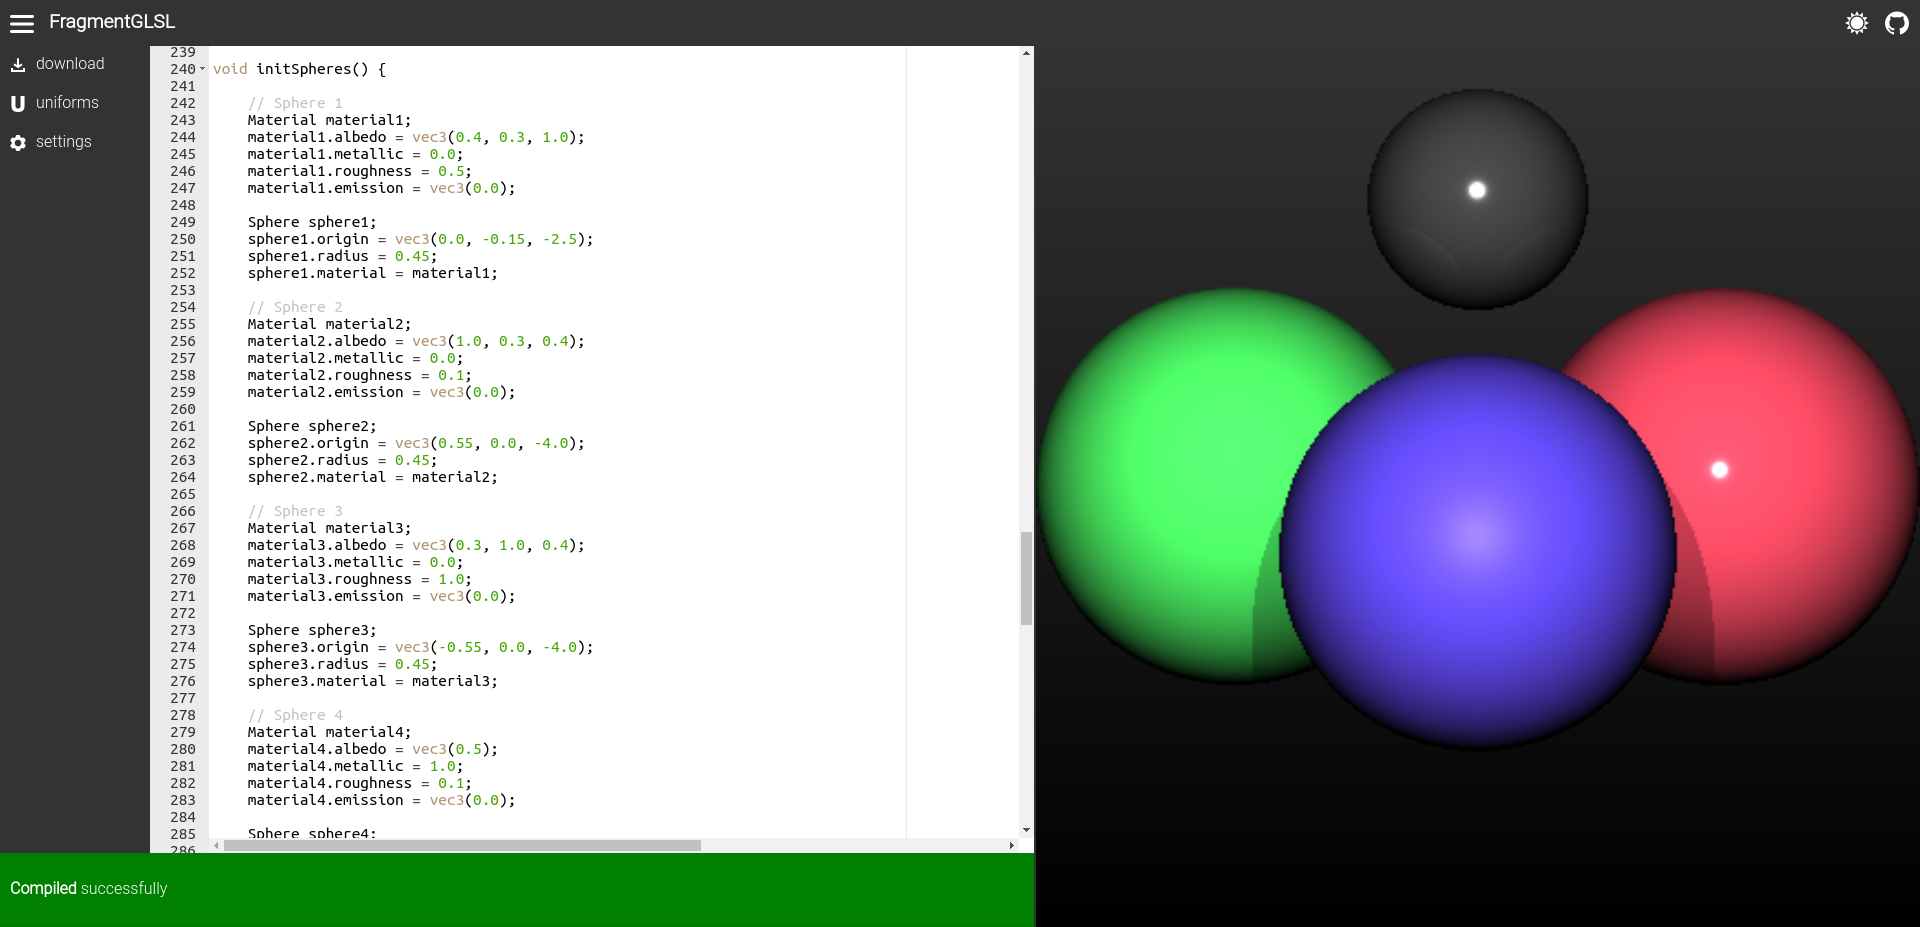
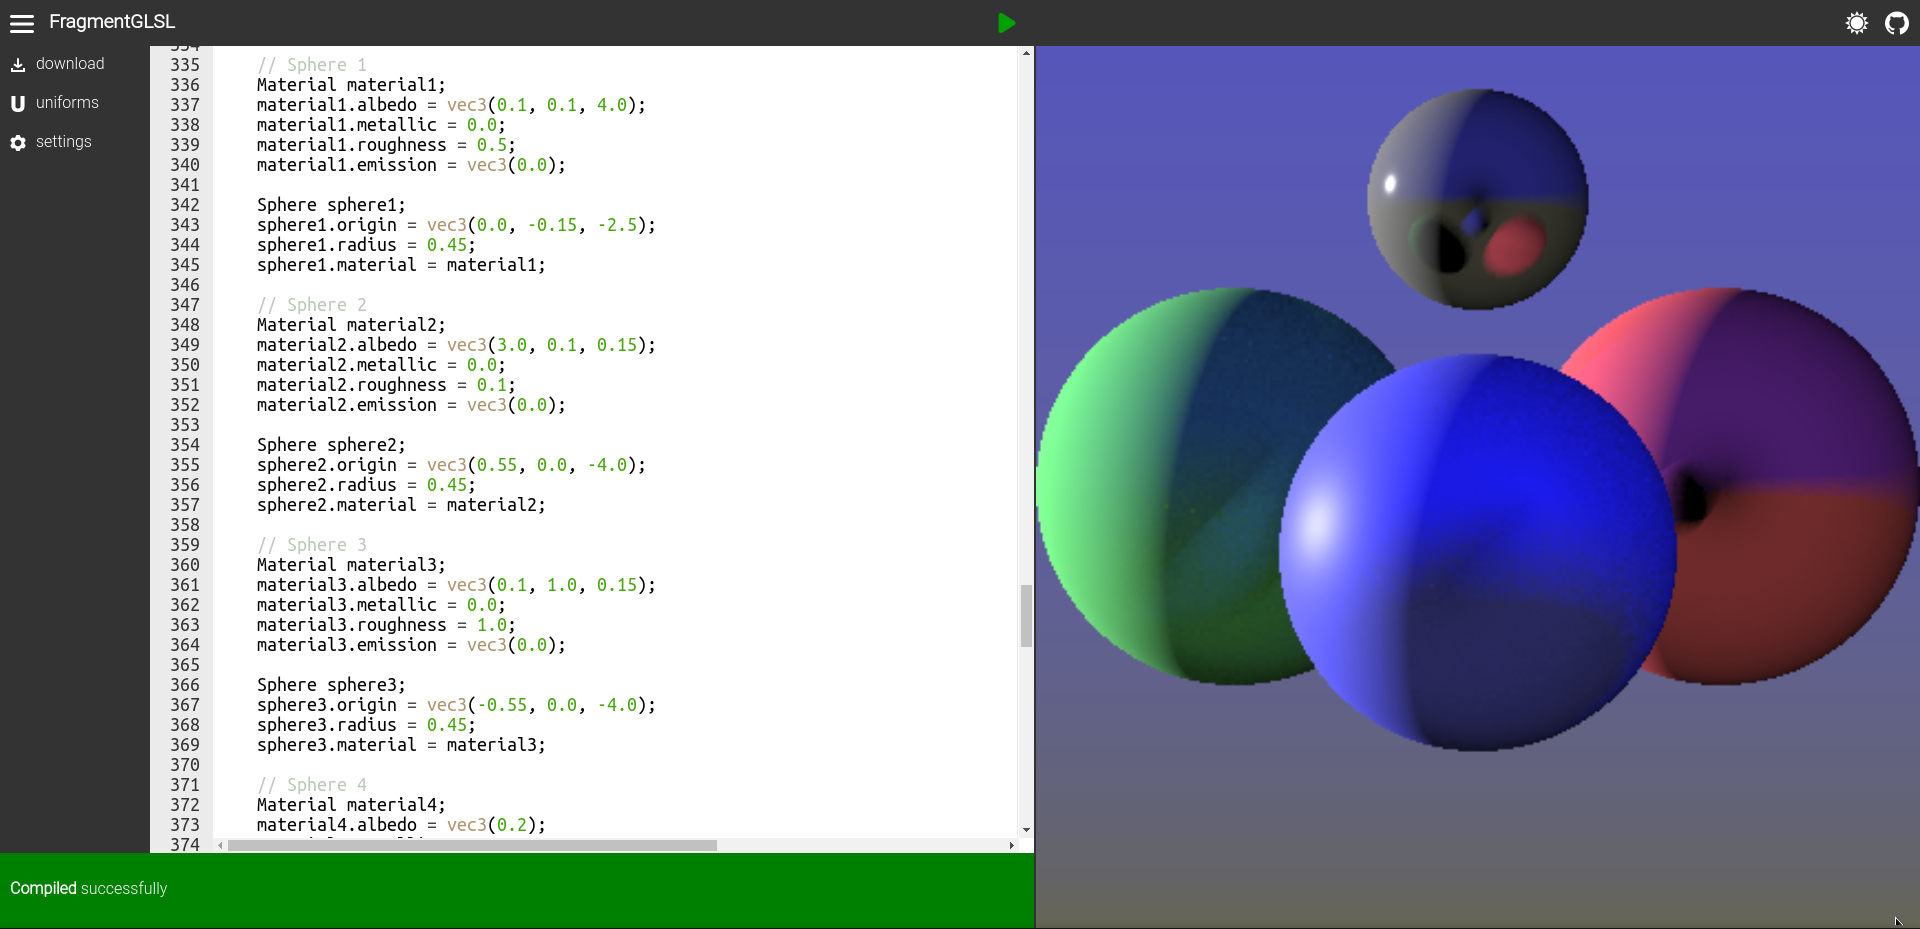
run button

diff --git a/src/js/webgl.js b/src/js/webgl.js
@@ -1,3 +1,5 @@
+let running = true;
+
 function initWebGL() {
         
     const canvas = document.getElementById('webgl-canvas');
@@ -54,49 +56,52 @@ function initWebGL() {
 
     function render() {
 
-        let compiled = false;
-        let newFragmentShader = null;
+        if(running) {
+            
+            let compiled = false;
+            let newFragmentShader = null;
 
-        fragmentShaderCode = editor.getValue();
+            fragmentShaderCode = editor.getValue();
 
-        let errorOutput = document.getElementById('error-output');
+            let errorOutput = document.getElementById('error-output');
 
-        try {
-            newFragmentShader = compileProgram(fragmentShaderCode);
-            compiled = true;
-        }
-        catch(error) {
-            errorOutput.innerHTML = error;
-            errorOutput.style.backgroundColor = "#ff334e";
-        }
-        
-        if(compiled && newFragmentShader != null) {
-
-            fragmentShader = newFragmentShader;
-            gl.attachShader(program, fragmentShader);
-            gl.linkProgram(program);
-
-            if (!gl.getProgramParameter(program, gl.LINK_STATUS) && program != null) {
-                console.error('Program linking failed:', gl.getProgramInfoLog(program));
-                return;
+            try {
+                newFragmentShader = compileProgram(fragmentShaderCode);
+                compiled = true;
             }
+            catch(error) {
+                errorOutput.innerHTML = error;
+                errorOutput.style.backgroundColor = "#ff334e";
+            }
+            
+            if(compiled && newFragmentShader != null) {
 
-            gl.useProgram(program);
+                fragmentShader = newFragmentShader;
+                gl.attachShader(program, fragmentShader);
+                gl.linkProgram(program);
 
-            // Uniforms
-            const uTime = Date.now() - startTime;
-            uniformFloat(gl, "u_time", uTime, program);
+                if (!gl.getProgramParameter(program, gl.LINK_STATUS) && program != null) {
+                    console.error('Program linking failed:', gl.getProgramInfoLog(program));
+                    return;
+                }
 
-            uniformVec2(gl, "u_resolution", 400, 400, program);
+                gl.useProgram(program);
 
-            // Draw call
-            gl.clearColor(0.0, 0.0, 0.0, 1.0);
-            gl.clear(gl.COLOR_BUFFER_BIT);
-            gl.drawArrays(gl.TRIANGLE_STRIP, 0, 4);
+                // Uniforms
+                const uTime = Date.now() - startTime;
+                uniformFloat(gl, "u_time", uTime, program);
 
-            // Clear error
-            errorOutput.innerHTML = "<p style='padding: 10px'><strong>Compiled</strong> successfully</p>";
-            errorOutput.style.backgroundColor = "green";
+                uniformVec2(gl, "u_resolution", 400, 400, program);
+
+                // Draw call
+                gl.clearColor(0.0, 0.0, 0.0, 1.0);
+                gl.clear(gl.COLOR_BUFFER_BIT);
+                gl.drawArrays(gl.TRIANGLE_STRIP, 0, 4);
+
+                // Clear error
+                errorOutput.innerHTML = "<p style='padding: 10px'><strong>Compiled</strong> successfully</p>";
+                errorOutput.style.backgroundColor = "green";
+            }
         }
 
         // Request next frame (rendering loop)

diff --git a/src/index.html b/src/index.html
@@ -10,6 +10,9 @@
     <link rel="icon" type="image/x-icon" href="/img/f.png">
 
     <script src="libs/ace-builds/src-noconflict/ace.js" type="text/javascript" charset="utf-8"></script>
+
+    <!-- WEBGL variabless and functions -->
+    <script src="js/webgl.js"></script>
 </head>
 <body>
 
@@ -18,7 +21,11 @@
     
         <div>
             <button id="menu-button" class="menu-button"></button>
-            <strong style="margin-left: 5px;font-size: larger;">FragmentGLSL</strong>
+            <strong style="margin-left: 5px;font-size: larger;margin-bottom: 0px; padding: 0px;">FragmentGLSL</strong>
+        </div>
+
+        <div class="toolbar">
+            <button id="run-button"></button>
         </div>
 
         <div class="navbar-buttons">
@@ -106,8 +113,7 @@ void main() {
     <!-- JS MENU -->
     <script src="js/menu.js"></script>
 
-    <!-- JS WEBGL -->
-    <script src="js/webgl.js"></script>
+    <!-- JS init WEBGL -->
     <script>
         document.addEventListener('DOMContentLoaded', initWebGL);
     </script>

diff --git a/src/js/editor.js b/src/js/editor.js
@@ -20,11 +20,11 @@ let dark = false;
 darkmodeButton.addEventListener("click", function() {
     if(!dark) {
         editor.setTheme("ace/theme/monokai");
-        darkmodeButton.style. backgroundImage = "url('img/dark.png')";
+        darkmodeButton.style.backgroundImage = "url('img/dark.png')";
     }
     else {
         editor.setTheme("ace/theme/clouds");
-        darkmodeButton.style. backgroundImage = "url('img/light.png')";
+        darkmodeButton.style.backgroundImage = "url('img/light.png')";
     }
     dark = !dark;
 });

diff --git a/src/js/menu.js b/src/js/menu.js
@@ -98,3 +98,17 @@ document.getElementById("save-settings").addEventListener("click", function() {
 
     modalSettings.style.display = "none";
 });
+
+// Compile button events
+let runButton = document.getElementById("run-button");
+runButton.addEventListener("click", function() {
+
+    running = !running;
+    
+    if(!running) {
+        runButton.style.backgroundImage = "url('../img/run.png')";
+    }
+    else {
+        runButton.style.backgroundImage = "url('../img/pause.png')";
+    }
+});

diff --git a/src/styles/styles.css b/src/styles/styles.css
@@ -237,3 +237,23 @@ input[type=number] {
 #save-settings:hover {
     background-color: rgb(55, 55, 255);
 }
+
+.toolbar {
+    display: flex;
+}
+
+#run-button {
+    background-image: url(../img/pause.png);
+    background-color: transparent;
+    background-repeat: no-repeat;
+    background-position: 0px 0px;
+    border: none;
+    cursor: pointer;
+    height: 24px;
+    padding-left: 24px;
+    vertical-align: middle;
+}
+
+#run-button:hover {
+    opacity: 0.5;
+}
